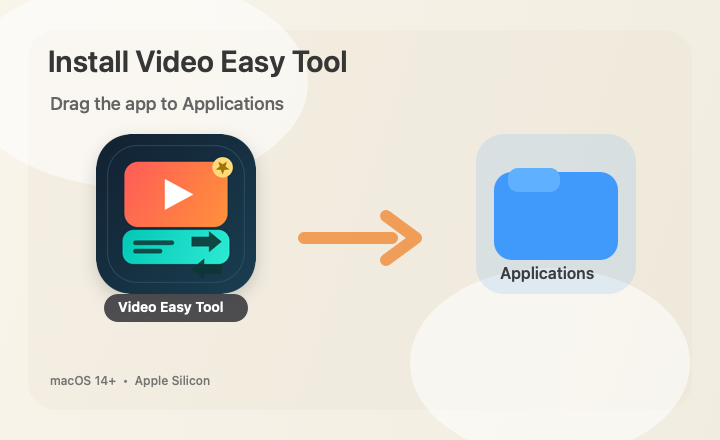
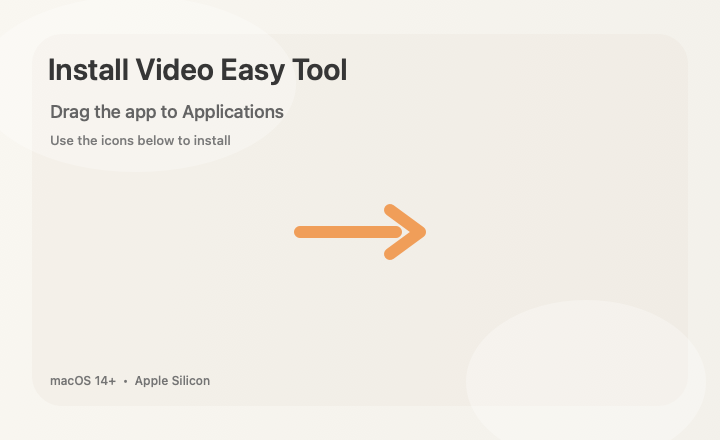
Refine README placement and simplify DMG background

Changed region(s): [[0.0611, 0.0886, 0.4889, 0.7386], [0.6417, 0.2955, 0.8861, 0.65], [0.3972, 0.4432, 0.6111, 0.6205]]

diff --git a/scripts/make_dmg_background.swift b/scripts/make_dmg_background.swift
@@ -4,17 +4,9 @@ import Foundation
 let scriptURL = URL(fileURLWithPath: CommandLine.arguments[0]).standardizedFileURL
 let root = scriptURL.deletingLastPathComponent().deletingLastPathComponent()
 let outputURL = root.appendingPathComponent("assets/dmg-background.png")
-let iconURL = root.appendingPathComponent("assets/VideoEasyTool-icon-1024.png")
 
 let canvasSize = NSSize(width: 720, height: 440)
-let arrowRect = NSRect(x: 304, y: 170, width: 112, height: 64)
-let iconRect = NSRect(x: 96, y: 146, width: 160, height: 160)
-let appsRect = NSRect(x: 476, y: 146, width: 160, height: 160)
-
-guard let icon = NSImage(contentsOf: iconURL) else {
-    fputs("Failed to load icon at \(iconURL.path)\n", stderr)
-    exit(1)
-}
+let arrowRect = NSRect(x: 300, y: 184, width: 120, height: 48)
 
 let rep = NSBitmapImageRep(
     bitmapDataPlanes: nil,
@@ -35,68 +27,38 @@ NSGraphicsContext.current = NSGraphicsContext(bitmapImageRep: rep)
 let bounds = NSRect(origin: .zero, size: canvasSize)
 
 let gradient = NSGradient(colors: [
-    NSColor(calibratedRed: 0.97, green: 0.95, blue: 0.90, alpha: 1.0),
-    NSColor(calibratedRed: 0.93, green: 0.91, blue: 0.85, alpha: 1.0)
+    NSColor(calibratedRed: 0.97, green: 0.96, blue: 0.93, alpha: 1.0),
+    NSColor(calibratedRed: 0.94, green: 0.93, blue: 0.90, alpha: 1.0)
 ])!
-gradient.draw(in: bounds, angle: -18)
+gradient.draw(in: bounds, angle: -12)
 
-NSColor(calibratedRed: 0.86, green: 0.82, blue: 0.74, alpha: 0.22).setFill()
-NSBezierPath(roundedRect: NSRect(x: 28, y: 30, width: 664, height: 380), xRadius: 28, yRadius: 28).fill()
+NSColor(calibratedRed: 0.84, green: 0.81, blue: 0.75, alpha: 0.16).setFill()
+NSBezierPath(roundedRect: NSRect(x: 32, y: 34, width: 656, height: 372), xRadius: 30, yRadius: 30).fill()
 
-NSColor(calibratedRed: 1.0, green: 1.0, blue: 1.0, alpha: 0.55).setFill()
-NSBezierPath(ovalIn: NSRect(x: -36, y: 252, width: 344, height: 210)).fill()
-NSBezierPath(ovalIn: NSRect(x: 410, y: -18, width: 280, height: 190)).fill()
+NSColor(calibratedRed: 1.0, green: 1.0, blue: 1.0, alpha: 0.28).setFill()
+NSBezierPath(ovalIn: NSRect(x: -24, y: 268, width: 320, height: 176)).fill()
+NSBezierPath(ovalIn: NSRect(x: 466, y: -24, width: 240, height: 164)).fill()
 
 let title = "Install Video Easy Tool"
 let titleAttrs: [NSAttributedString.Key: Any] = [
     .font: NSFont.systemFont(ofSize: 30, weight: .semibold),
     .foregroundColor: NSColor(calibratedWhite: 0.16, alpha: 1.0)
 ]
-title.draw(at: NSPoint(x: 48, y: 362), withAttributes: titleAttrs)
+title.draw(at: NSPoint(x: 48, y: 354), withAttributes: titleAttrs)
 
 let subtitle = "Drag the app to Applications"
 let subtitleAttrs: [NSAttributedString.Key: Any] = [
     .font: NSFont.systemFont(ofSize: 18, weight: .medium),
     .foregroundColor: NSColor(calibratedWhite: 0.32, alpha: 1.0)
 ]
-subtitle.draw(at: NSPoint(x: 50, y: 326), withAttributes: subtitleAttrs)
+subtitle.draw(at: NSPoint(x: 50, y: 318), withAttributes: subtitleAttrs)
 
-let shadow = NSShadow()
-shadow.shadowBlurRadius = 18
-shadow.shadowOffset = NSSize(width: 0, height: -6)
-shadow.shadowColor = NSColor(calibratedWhite: 0.0, alpha: 0.16)
-
-NSGraphicsContext.saveGraphicsState()
-shadow.set()
-icon.draw(in: iconRect, from: .zero, operation: .sourceOver, fraction: 1.0)
-NSGraphicsContext.restoreGraphicsState()
-
-let appBadgePath = NSBezierPath(roundedRect: NSRect(x: 104, y: 118, width: 144, height: 28), xRadius: 14, yRadius: 14)
-NSColor(calibratedRed: 0.16, green: 0.16, blue: 0.18, alpha: 0.88).setFill()
-appBadgePath.fill()
-let appBadgeAttrs: [NSAttributedString.Key: Any] = [
-    .font: NSFont.systemFont(ofSize: 14, weight: .semibold),
-    .foregroundColor: NSColor.white
+let note = "Use the icons below to install"
+let noteAttrs: [NSAttributedString.Key: Any] = [
+    .font: NSFont.systemFont(ofSize: 13, weight: .medium),
+    .foregroundColor: NSColor(calibratedWhite: 0.40, alpha: 1.0)
 ]
-"Video Easy Tool".draw(in: NSRect(x: 118, y: 124, width: 118, height: 18), withAttributes: appBadgeAttrs)
-
-let folderPath = NSBezierPath(roundedRect: appsRect, xRadius: 28, yRadius: 28)
-NSColor(calibratedRed: 0.22, green: 0.52, blue: 0.96, alpha: 0.14).setFill()
-folderPath.fill()
-
-let folderBody = NSBezierPath(roundedRect: NSRect(x: appsRect.minX + 18, y: appsRect.minY + 34, width: 124, height: 88), xRadius: 18, yRadius: 18)
-NSColor(calibratedRed: 0.20, green: 0.52, blue: 0.98, alpha: 1.0).setFill()
-folderBody.fill()
-
-let folderTab = NSBezierPath(roundedRect: NSRect(x: appsRect.minX + 32, y: appsRect.minY + 102, width: 52, height: 24), xRadius: 10, yRadius: 10)
-NSColor(calibratedRed: 0.31, green: 0.62, blue: 1.0, alpha: 1.0).setFill()
-folderTab.fill()
-
-let appsLabelAttrs: [NSAttributedString.Key: Any] = [
-    .font: NSFont.systemFont(ofSize: 16, weight: .semibold),
-    .foregroundColor: NSColor(calibratedWhite: 0.18, alpha: 1.0)
-]
-"Applications".draw(in: NSRect(x: appsRect.minX + 24, y: appsRect.minY + 8, width: 120, height: 22), withAttributes: appsLabelAttrs)
+note.draw(at: NSPoint(x: 50, y: 292), withAttributes: noteAttrs)
 
 let arrowPath = NSBezierPath()
 arrowPath.move(to: NSPoint(x: arrowRect.minX, y: arrowRect.midY))

diff --git a/README.md b/README.md
@@ -2,8 +2,6 @@
 
 [English](./README.md) | [简体中文](./README.zh-CN.md)
 
-For most users, the recommended way to install Video Easy Tool is to download the packaged installer from [Releases](https://github.com/shshbb/Video-EasyTool/releases). Building and running from source is mainly intended for development, debugging, or contributing, and is not the recommended installation path for everyday use.
-
 A native macOS app for downloading YouTube videos, transcribing subtitles with local Whisper models, translating subtitles with OpenAI-compatible APIs or Ollama, and exporting bilingual subtitle files.
 
 ## Features
@@ -37,6 +35,8 @@ ollama serve
 ```
 
 ## Run
+
+For most users, the recommended way to install Video Easy Tool is to download the packaged installer from [Releases](https://github.com/shshbb/Video-EasyTool/releases). Building and running from source is mainly intended for development, debugging, or contributing, and is not the recommended installation path for everyday use.
 
 Development:
 

diff --git a/README.zh-CN.md b/README.zh-CN.md
@@ -2,8 +2,6 @@
 
 [English](./README.md) | [简体中文](./README.zh-CN.md)
 
-对于大多数用户，推荐直接从 [Releases](https://github.com/shshbb/Video-EasyTool/releases) 下载已经打包好的安装包。源码编译和运行更适合开发、调试或参与项目贡献，并不建议作为日常安装和使用方式。
-
 `Video Easy Tool` 是一个原生 macOS 应用，用于下载 YouTube 视频、使用本地 Whisper 模型转录字幕、通过 OpenAI 兼容接口或 Ollama 翻译字幕，并导出双语字幕文件。
 
 ## 功能特性
@@ -37,6 +35,8 @@ ollama serve
 ```
 
 ## 运行方式
+
+对于大多数用户，推荐直接从 [Releases](https://github.com/shshbb/Video-EasyTool/releases) 下载已经打包好的安装包。源码编译和运行更适合开发、调试或参与项目贡献，并不建议作为日常安装和使用方式。
 
 开发环境运行：
 
